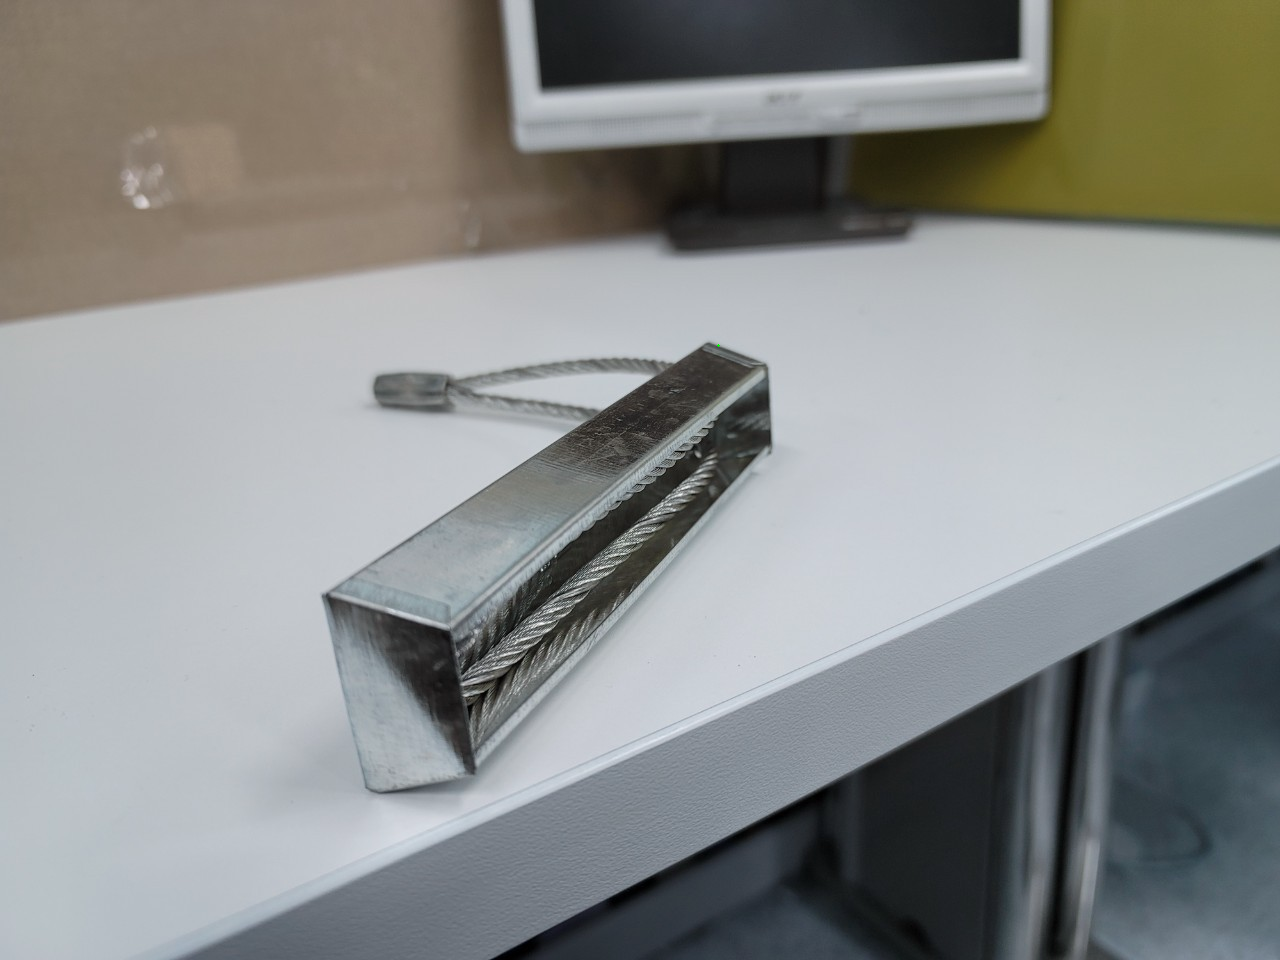
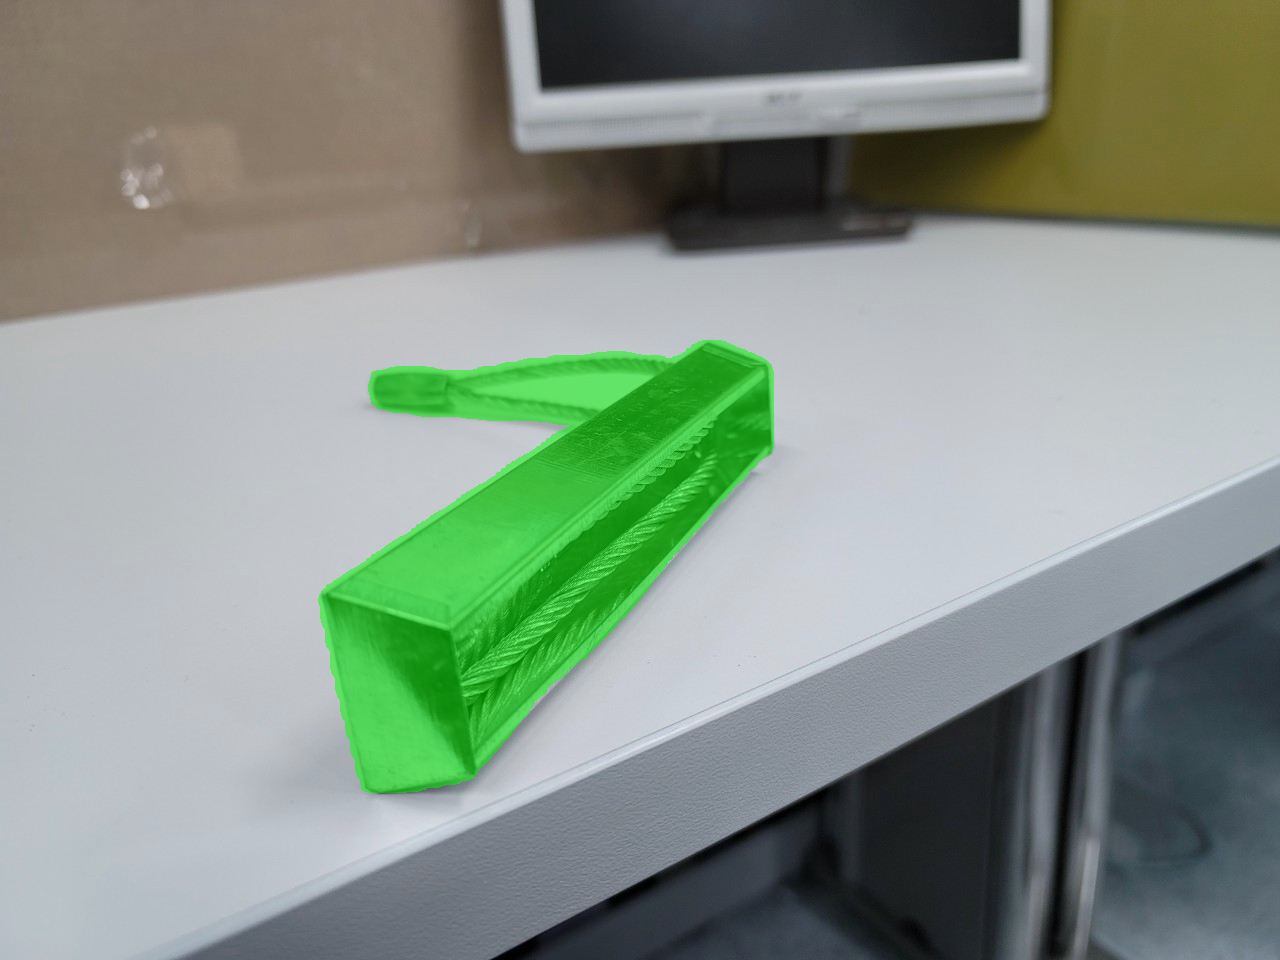
add api to return base64

Changed region(s): [[0.25, 0.3438, 0.625, 0.8438]]

diff --git a/mr_server_side/ml/views.py b/mr_server_side/ml/views.py
@@ -2,7 +2,7 @@ from django.shortcuts import render
 
 from mr_server_side.settings import STATICFILES_DIRS, STATIC_ROOT
 
-from ml.models import show_image, write_image
+from ml.models import image_to_base64, show_image, write_image
 
 from rest_framework import generics, status
 from rest_framework.decorators import api_view
@@ -19,9 +19,6 @@ def compare_image(request):
     image_path= r"C:\Users\James\Desktop\project2\project2\static\images\example.jpg"
     project = rf.workspace().project("thesis-mep-testing")
     model = project.version(3).model
-
-    # # infer on a local image
-    # print(model.predict("your_image.jpg").json())
 
     # infer on an image hosted elsewhere
     predictions = model.predict(image_path).json()
@@ -53,9 +50,10 @@ def compare_image(request):
     image_copy = image.copy()  # Make a copy to draw on
     image_copy = cv2.addWeighted(overlay, alpha, image, 1 - alpha, 0)
 
-    err = write_image(image_copy, "overlay")
+    output_path, err = write_image(image_copy, "overlay")
     if err:
         return Response({"error": err}, status=status.HTTP_400_BAD_REQUEST)
+    overlay_base64, err = image_to_base64(output_path)
 
     height, width, channels = image.shape
     blank_image = np.zeros((height, width, 3), dtype=np.uint8)
@@ -65,8 +63,11 @@ def compare_image(request):
     cv2.fillPoly(blank_image, [polygon_points], white_fill_color)
 
     # Display the image with the filled polygon
-    err = write_image(blank_image, "bw")
+    output_path, err = write_image(blank_image, "bw")
     if err:
         return Response({"error": err}, status=status.HTTP_400_BAD_REQUEST)
+    blank_base64, err = image_to_base64(output_path)
+    
+    response = {"overlay_base64":overlay_base64, "blank_base64":blank_base64}
 
-    return Response({"success": True}, status=status.HTTP_200_OK)
+    return Response(response, status=status.HTTP_200_OK)

diff --git a/mr_server_side/ml/models.py b/mr_server_side/ml/models.py
@@ -1,5 +1,6 @@
 from django.db import models
 
+import base64
 import cv2
 import matplotlib.pyplot as plt
 
@@ -18,5 +19,19 @@ def write_image(image, file_name):
         rgb_image = cv2.cvtColor(image, cv2.COLOR_BGR2RGB)
         output_path = r"C:\Users\James\Desktop\project2\project2\static\images\{}.png".format(file_name)
         cv2.imwrite(output_path, rgb_image)
+        return output_path, None
     except Exception as e:
-        return str(e)
+        return None, str(e)
+
+def image_to_base64(file_path):
+    try:
+        with open(file_path, "rb") as image_file:
+            # Encode the image file to base64
+            base64_encoded = base64.b64encode(image_file.read())
+            
+            # Decode the bytes to a UTF-8 string
+            base64_string = base64_encoded.decode("utf-8")
+            
+            return base64_string, None
+    except Exception as e:
+        return str(e), None
